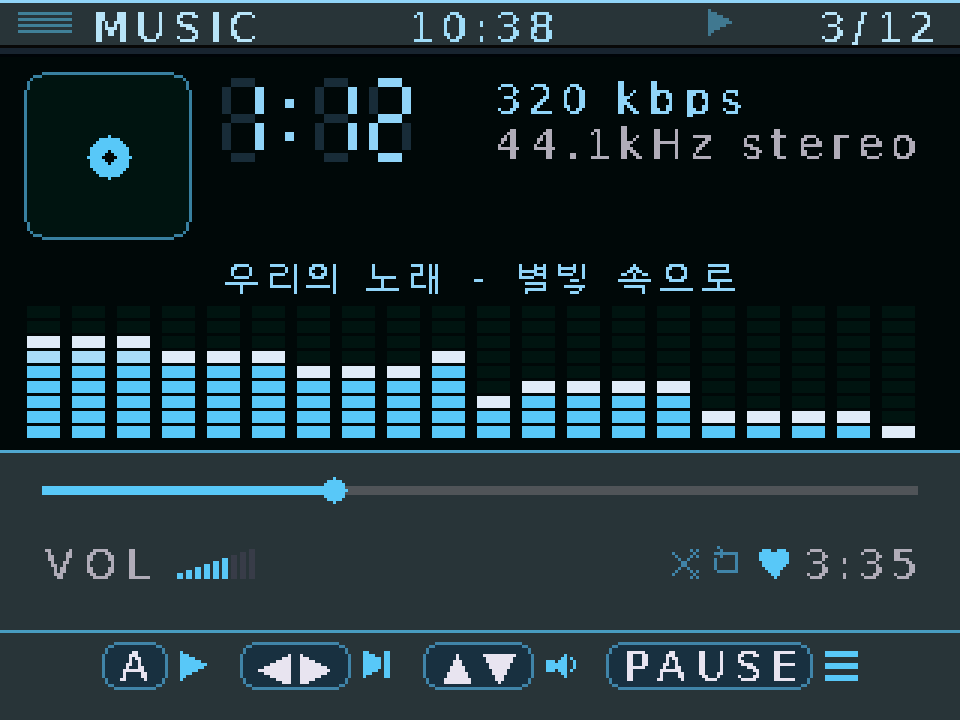
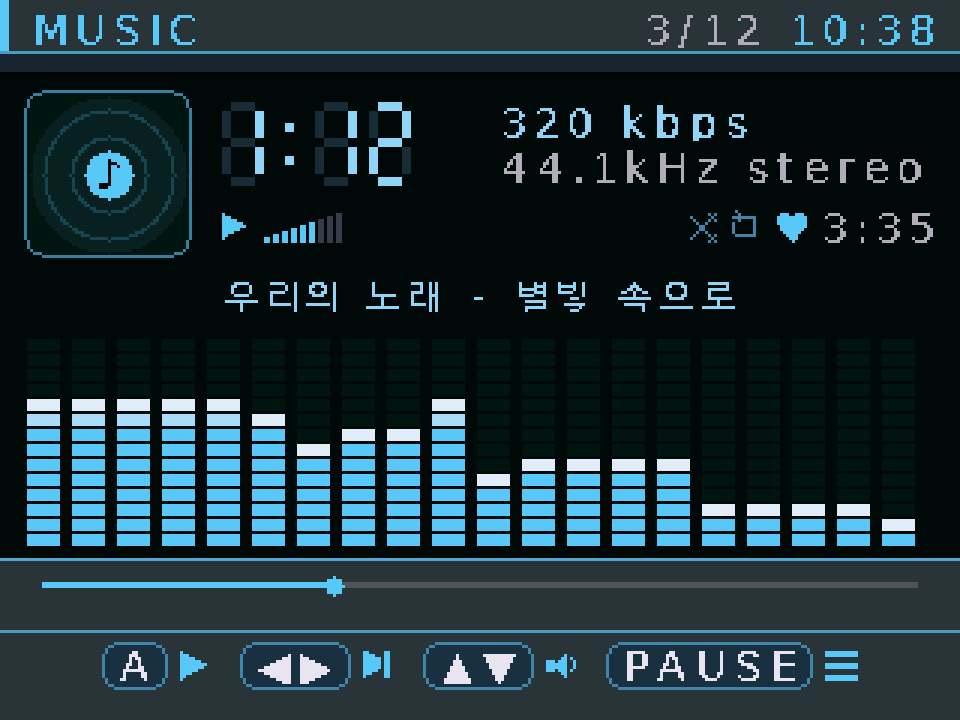
feat(music): rework now-playing — consistent top bar, consolidated info panel
- top bar now mirrors the browser header (accent tab + MUSIC title + track index
  + clock on the right) instead of the old ribbed-grip/centered-clock bar
- volume, play/pause, heart, shuffle/repeat and total time moved OUT of the
  disjoint bottom row INTO a status line inside the info/LCD panel (next to the
  7-seg time + bit-rate); the bottom row is gone
- info/LCD panel dropped lower off the top bar; the equalizer is taller
- position bar is now thin and sits low, just above the hint bar
- richer default cover: a grooved vinyl record with a bright accent label and a
  music note, instead of the sparse mini-disc

diff --git a/Core/Src/porting/media/media_ui.c b/Core/Src/porting/media/media_ui.c
@@ -23,26 +23,27 @@
 #define SCR_H  GW_LCD_HEIGHT
 #define FONT_H 12
 
-// now-playing: Winamp-style skin layout (320x240)
-#define TITLEBAR_H 16
-#define LCD_Y      18
-#define LCD_H      132                     // glass panel spans LCD_Y .. LCD_Y+LCD_H
-#define COVER_X    8                       // small album-art thumbnail, top-left
-#define COVER_Y    24
-#define COVER_SZ   56
-#define SEG_X      74                      // 7-segment time, right of the cover
-#define SEG_Y      26
+// now-playing: deck layout (320x240). Top bar matches the browser header; time,
+// bit-rate, volume and status all live together in the info/LCD panel.
+#define TITLEBAR_H 18                      // == LIST_HEADER_H (consistent top bar)
+#define LCD_Y      24                      // info/LCD panel, dropped off the top bar
+#define LCD_H      162                     // 24 .. 186
+#define COVER_X    8                       // album-art thumbnail, top-left of panel
+#define COVER_Y    30
+#define COVER_SZ   56                      // 30 .. 86
+#define SEG_X      74                      // 7-segment elapsed time, right of cover
+#define SEG_Y      34
 #define SEG_W      14                      // per-digit cell
-#define SEG_H      28
-#define INFO_X     164                     // bit-rate / kHz column
-#define MARQUEE_Y  86                      // scrolling title band (below cover)
+#define SEG_H      28                      // 34 .. 62
+#define INFO_X     166                     // bit-rate / kHz column
+#define STAT_Y     70                      // play/pause + volume + status + total time
+#define MARQUEE_Y  92                      // scrolling title band (below cover)
 #define VIS_X      8                       // spectrum analyzer left margin
-#define VIS_TOP    100
-#define VIS_BASE   146                     // bars grow upward from here
+#define VIS_TOP    108
+#define VIS_BASE   182                     // taller equalizer: 108 .. 182
 #define VIS_BARS   20
 #define SEEK_X     14
-#define SEEK_Y     162
-#define ROW_Y      182                     // volume + status row
+#define SEEK_Y     194                     // thin position bar, lowered
 #define HINT_DIV   210                     // top of the bottom hint panel
 #define HINT1_Y    216
 
@@ -426,15 +427,6 @@ static void draw_spectrum(uint16_t lcd_bg)
     }
 }
 
-// Small "HH:MM" clock — Game & Watch is a watch, so the time is always on screen.
-static void draw_clock(int x_center, int y, uint16_t fg)
-{
-    char t[8];
-    snprintf(t, sizeof(t), "%02d:%02d", GW_GetCurrentHour(), GW_GetCurrentMinute());
-    int w = i18n_get_text_width(t);
-    ui_text_t(x_center - w / 2, y, w + 2, t, fg);
-}
-
 // --- scrolling title marquee ------------------------------------------------
 
 static char     g_marquee[256];     // "Artist - Title" for the LCD panel
@@ -588,15 +580,18 @@ void ui_player_set_cover(const uint16_t *thumb, int sz, bool has)
 // A little record (concentric grooves + centre label) — the no-cover stand-in.
 static void draw_disc(int cx, int cy, int r, uint16_t accent, uint16_t bg)
 {
-    uint16_t slate  = ui_mix(bg, accent, 1);
-    uint16_t groove = ui_mix(bg, accent, 3);
-    dot(cx, cy, r,            slate);
-    dot(cx, cy, r * 72 / 100, groove);
-    dot(cx, cy, r * 70 / 100, slate);
-    dot(cx, cy, r * 46 / 100, groove);
-    dot(cx, cy, r * 44 / 100, slate);
-    dot(cx, cy, r * 30 / 100, accent);     // label
-    dot(cx, cy, r * 8 / 100,  bg);         // spindle hole
+    uint16_t slate  = ui_mix(bg, accent, 2);
+    uint16_t groove = ui_mix(bg, accent, 5);
+    dot(cx, cy, r,            slate);       // disc body (drawn large -> small)
+    dot(cx, cy, r * 86 / 100, groove);
+    dot(cx, cy, r * 84 / 100, slate);
+    dot(cx, cy, r * 68 / 100, groove);
+    dot(cx, cy, r * 66 / 100, slate);
+    dot(cx, cy, r * 50 / 100, groove);
+    dot(cx, cy, r * 48 / 100, slate);
+    dot(cx, cy, r * 34 / 100, accent);      // bright centre label
+    int nw = i18n_get_text_width("\xE2\x99\xAA");
+    ui_text_t(cx - nw / 2, cy - 6, nw + 2, "\xE2\x99\xAA", bg);   // ♪ on the label
 }
 
 // Album art (or the record stand-in), rounded + thin-framed, in the LCD panel.
@@ -620,20 +615,18 @@ static void draw_player_hints(void);
 // thumbnail is supplied separately via ui_player_set_cover().
 void ui_player_static(const player_state_t *ps)
 {
-    uint16_t bg = curr_colors->bg_c, main_c = curr_colors->main_c;
+    uint16_t bg = curr_colors->bg_c;
     uint16_t accent = curr_colors->sel_c;
     uint16_t surface = ui_player_surface();
     uint16_t lcd = ui_lcd_bg();
 
     draw_vbg();
 
-    // title bar: beveled panel, ribbed grip + "MUSIC"
+    // top bar — same look as the browser header: accent tab + title + underline
     ui_fill(0, 0, SCR_W, TITLEBAR_H, surface);
-    ui_fill(0, 0, SCR_W, 1, ui_mix(accent, main_c, 6));         // top highlight
-    ui_fill(0, TITLEBAR_H - 1, SCR_W, 1, ui_dim(bg, 1, 2));     // bottom shade
-    for (int i = 0; i < 4; i++)
-        ui_fill(6, 4 + i * 2, 18, 1, ui_mix(accent, surface, 8));
-    ui_text_t(30, 3, 80, "MUSIC", ui_mix(main_c, accent, 6));
+    ui_fill(0, 0, 3, TITLEBAR_H, accent);
+    ui_fill(0, TITLEBAR_H - 1, SCR_W, 1, ui_mix(accent, bg, 4));
+    ui_text(10, 4, 90, "MUSIC", accent, surface);
 
     // LCD glass panel
     ui_fill(0, LCD_Y, SCR_W, LCD_H, lcd);
@@ -676,18 +669,19 @@ void ui_player_dynamic(const player_state_t *ps)
 
     g_anim++;
 
-    // ---- title bar: centered clock + (right) play/pause glyph + track index ----
-    ui_fill(SCR_W / 2 - 26, 1, 52, TITLEBAR_H - 2, surface);
-    draw_clock(SCR_W / 2, 3, ui_mix(main_c, accent, 9));
-    ui_fill(SCR_W - 86, 1, 86, TITLEBAR_H - 2, surface);
-    if (ps->paused) icon_pause(SCR_W - 84, 3, 7, 9, ui_mix(accent, surface, 9));
-    else            icon_play (SCR_W - 84, 3, 8, 9, ui_mix(accent, surface, 9));
+    // ---- top bar right: track index + clock (mirrors the browser header) ----
+    ui_fill(SCR_W - 120, 1, 120, TITLEBAR_H - 2, surface);
+    int trx = SCR_W - 8;
+    char clk[8];
+    snprintf(clk, sizeof(clk), "%02d:%02d", GW_GetCurrentHour(), GW_GetCurrentMinute());
+    int cw = i18n_get_text_width(clk);
+    trx -= cw; ui_text(trx, 4, cw + 2, clk, accent, surface);
     char pos[24];
     snprintf(pos, sizeof(pos), "%d/%d", ps->track_index + 1, ps->track_count);
     int pw = i18n_get_text_width(pos);
-    ui_text(SCR_W - 8 - pw, 3, pw + 2, pos, ui_mix(main_c, accent, 6), surface);
+    trx -= 8 + pw; ui_text(trx, 4, pw + 2, pos, soft, surface);
 
-    // ---- LCD time (7-seg) + bit-rate / kHz / channels ----
+    // ---- 7-seg elapsed time + bit-rate / kHz ----
     float frac = scrubbing ? ps->scrub
                : (ps->total > 0 ? (float)ps->sec / (float)ps->total : 0.0f);
     if (frac < 0) frac = 0;
@@ -706,34 +700,33 @@ void ui_player_dynamic(const player_state_t *ps)
              audio_channels() >= 2 ? "stereo" : "mono");
     ui_text(INFO_X, SEG_Y + 16, SCR_W - INFO_X - 8, info, soft, lcd);
 
-    // ---- marquee + spectrum analyzer ----
+    // ---- status line (in the panel): play/pause + volume | heart/shuffle/repeat + total ----
+    ui_fill(SEG_X, STAT_Y - 1, SCR_W - SEG_X - 6, 13, lcd);
+    if (ps->paused) icon_pause(SEG_X, STAT_Y + 1, 7, 9, accent);
+    else            icon_play (SEG_X, STAT_Y + 1, 8, 9, accent);
+    draw_vol_pips(SEG_X + 14, STAT_Y + 1, ps->volume);
+    int rx = SCR_W - 8;
+    char tot[16];
+    snprintf(tot, sizeof(tot), "%d:%02d", ps->total / 60, ps->total % 60);
+    int tw = i18n_get_text_width(tot);
+    rx -= tw; ui_text(rx, STAT_Y, tw + 2, tot, soft, lcd);
+    rx -= 16; ui_text(rx, STAT_Y, 14, "\xE2\x99\xA5",
+                      ps->favorite ? accent : ui_mix(dim, bg, 3), lcd);  // ♥
+    if (ps->repeat != REPEAT_OFF) { rx -= 14; icon_repeat(rx, STAT_Y + 1, ui_mix(accent, bg, 6)); }
+    if (ps->shuffle)              { rx -= 14; icon_shuffle(rx, STAT_Y + 1, ui_mix(accent, bg, 6)); }
+
+    // ---- marquee + spectrum (equalizer) ----
     draw_marquee(lcd);
     vis_compute(!ps->paused);
     draw_spectrum(lcd);
 
-    // ---- position slider ----
+    // ---- thin position bar (lowered) ----
     int gw = SCR_W - 2 * SEEK_X;
     int fillw = (int)(frac * gw);
-    ui_fill(SEEK_X - 2, SEEK_Y - 4, gw + 4, 12, surface);
-    ui_fill(SEEK_X, SEEK_Y, gw, 3, ui_mix(bg, main_c, 5));
-    ui_fill(SEEK_X, SEEK_Y, fillw, 3, accent);
-    dot(SEEK_X + fillw, SEEK_Y + 1, 4, scrubbing ? main_c : accent);
-
-    // ---- volume + status row ----
-    ui_fill(0, ROW_Y - 2, SCR_W, HINT_DIV - (ROW_Y - 2), surface);
-    int volx = SEEK_X + i18n_get_text_width("VOL") + 8;
-    ui_text(SEEK_X, ROW_Y, volx - SEEK_X, "VOL", soft, surface);
-    draw_vol_pips(volx, ROW_Y + 1, ps->volume);
-
-    int rx = SCR_W - SEEK_X;
-    char tot[16];
-    snprintf(tot, sizeof(tot), "%d:%02d", ps->total / 60, ps->total % 60);
-    int tw = i18n_get_text_width(tot);
-    rx -= tw; ui_text(rx, ROW_Y, tw + 2, tot, soft, surface);
-    rx -= 16; ui_text(rx, ROW_Y, 14, "\xE2\x99\xA5",
-                      ps->favorite ? accent : ui_mix(dim, bg, 3), surface);  // ♥
-    if (ps->repeat != REPEAT_OFF) { rx -= 14; icon_repeat(rx, ROW_Y + 1, ui_mix(accent, bg, 6)); }
-    if (ps->shuffle)              { rx -= 14; icon_shuffle(rx, ROW_Y + 1, ui_mix(accent, bg, 6)); }
+    ui_fill(SEEK_X - 2, SEEK_Y - 3, gw + 4, 8, surface);
+    ui_fill(SEEK_X, SEEK_Y, gw, 2, ui_mix(bg, main_c, 5));
+    ui_fill(SEEK_X, SEEK_Y, fillw, 2, accent);
+    dot(SEEK_X + fillw, SEEK_Y + 1, 3, scrubbing ? main_c : accent);
 }
 
 static void draw_player_hints(void)